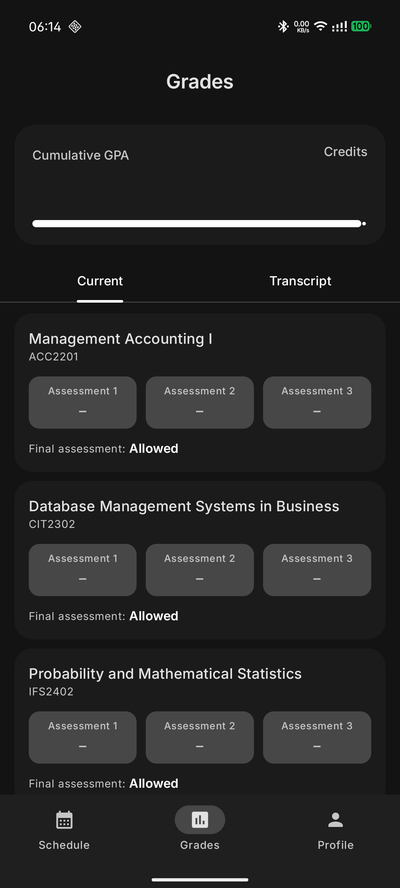
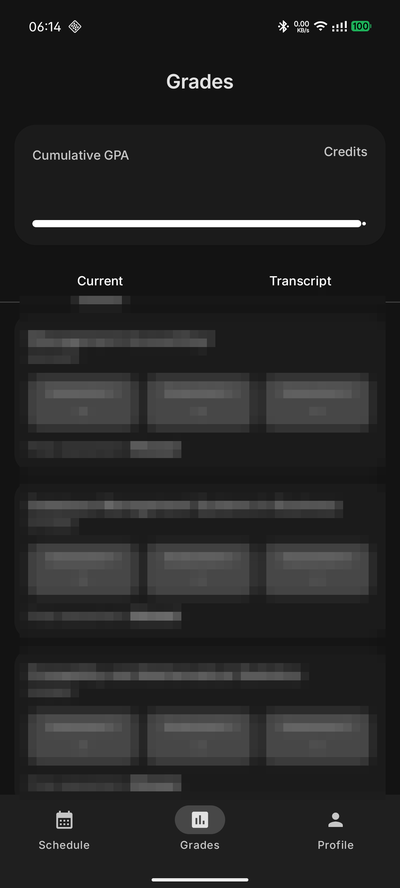
docs: remove all personally identifiable data from examples and screenshots
- API doc examples now use synthetic values (student id, name, GUID, GPA,
  grades, courses, instructors, halls)
- release doc: genericise the certificate DN
- screenshots: mosaic timetable/grades content and blank GPA figures

diff --git a/docs/KIMEP_Mobile_API.md b/docs/KIMEP_Mobile_API.md
@@ -42,7 +42,7 @@ Request:
 
 ```json
 {
-  "StudentId": "20231178",
+  "StudentId": "12345678",
   "Password": "<plaintext password>",
   "Token": "null"
 }
@@ -57,7 +57,7 @@ Response `200`:
 
 ```json
 {
-  "id": "c5780c74-0d6c-4131-a7f9-17ba234307a9",
+  "id": "00000000-0000-0000-0000-000000000000",
   "ExpiredOn": "\/Date(1790754833223)\/"
 }
 ```
@@ -81,10 +81,10 @@ Response `200`:
 
 ```json
 {
-  "StudentID": 20231178,
-  "FirstName": "Artyom",
-  "LastName": "Chshyogolev",
-  "ProgramID": "Bisb",
+  "StudentID": 12345678,
+  "FirstName": "Alex",
+  "LastName": "Example",
+  "ProgramID": "BSc",
   "XRay": "\/Date(1785783600000)\/"
 }
 ```
@@ -93,7 +93,7 @@ Response `200`:
 |---|---|---|
 | `StudentID` | int | |
 | `FirstName` / `LastName` | string | |
-| `ProgramID` | string | program code, e.g. `"Bisb"` |
+| `ProgramID` | string | program code, e.g. `"BSc"` |
 | `XRay` | date | a date the server reports (purpose unconfirmed) |
 
 ---
@@ -112,12 +112,12 @@ Response `200` — array of scheduled class meetings:
     "ID": 117400,
     "WeekDay": "Monday",
     "Semester": "F2026",
-    "Title": "Management Accounting I",
-    "CourseID": "CostMngtAcc",
-    "Hall": "#126/Valikhanov bld.",
-    "Instructor": "Saule Dyussembina, Ph.D",
-    "LDrive": "\\\\l-drive\\lecture\\Saule Dyussembina",
-    "Section": "6",
+    "Title": "Example Course",
+    "CourseID": "EX101",
+    "Hall": "#101/Example bld.",
+    "Instructor": "Jane Doe, Ph.D",
+    "LDrive": "\\\\l-drive\\lecture\\Jane Doe",
+    "Section": "1",
     "Time_From": "\/Date(-2209136400000)\/",
     "Time_To": "\/Date(-2209131900000)\/",
     "Date_From": "\/Date(1787598000000)\/",
@@ -218,7 +218,7 @@ Request: `{"id":"<GUID>"}`
 Response `200`:
 
 ```json
-{ "GPA": 2.7914851485148513, "CreditsEarned": 98, "CreditsTaken": 101 }
+{ "GPA": 3.25, "CreditsEarned": 87, "CreditsTaken": 120 }
 ```
 
 | Field | Type | Notes |
@@ -235,10 +235,10 @@ Response `200`:
 
 ```json
 [
-  { "ID": 20231178, "Semester": "SU1/2026", "Title": "Business Law",
-    "Grade": "C-", "Point": 1.67 },
-  { "ID": 20231178, "Semester": "S2026", "Title": "Financial Accounting I",
-    "Grade": "D+", "Point": 1.33 }
+  { "ID": 12345678, "Semester": "SU1/2026", "Title": "Example Course A",
+    "Grade": "B", "Point": 3.0 },
+  { "ID": 12345678, "Semester": "S2026", "Title": "Example Course B",
+    "Grade": "A-", "Point": 3.67 }
 ]
 ```
 
@@ -260,8 +260,8 @@ Response `200`:
 [
   {
     "Semester": "F2026",
-    "Code": "ACC2201",
-    "TitleCourses": "Management Accounting I",
+    "Code": "EX101",
+    "TitleCourses": "Example Course",
     "Registration": "x",
     "Score1": null,
     "Score2": null,
@@ -301,7 +301,7 @@ BASE=https://www.kimep.kz/ext/mobile
 curl -s "$BASE/auth/login" \
   -H 'Content-Type: application/json; charset=UTF-8' \
   -H 'Accept: application/json' \
-  -d '{"StudentId":"20231178","Password":"<pw>","Token":"null"}'
+  -d '{"StudentId":"12345678","Password":"<pw>","Token":"null"}'
 
 ID="<id from login response>"
 

diff --git a/docs/RELEASING.md b/docs/RELEASING.md
@@ -87,7 +87,7 @@ uninstalled before a newly signed build can be installed.
 The certificate is:
 
 ```
-CN=KIMEP Mobile, OU=Personal, O=Artyom Chshyogolev, L=Almaty, C=KZ
+CN=KIMEP Mobile, OU=Personal, O=Personal, L=Almaty, C=KZ
 SHA-256 183b1c40ae125cd925eb328207d64b0ccf081611b7543a7dd374796e220dfb26
 ```
 
